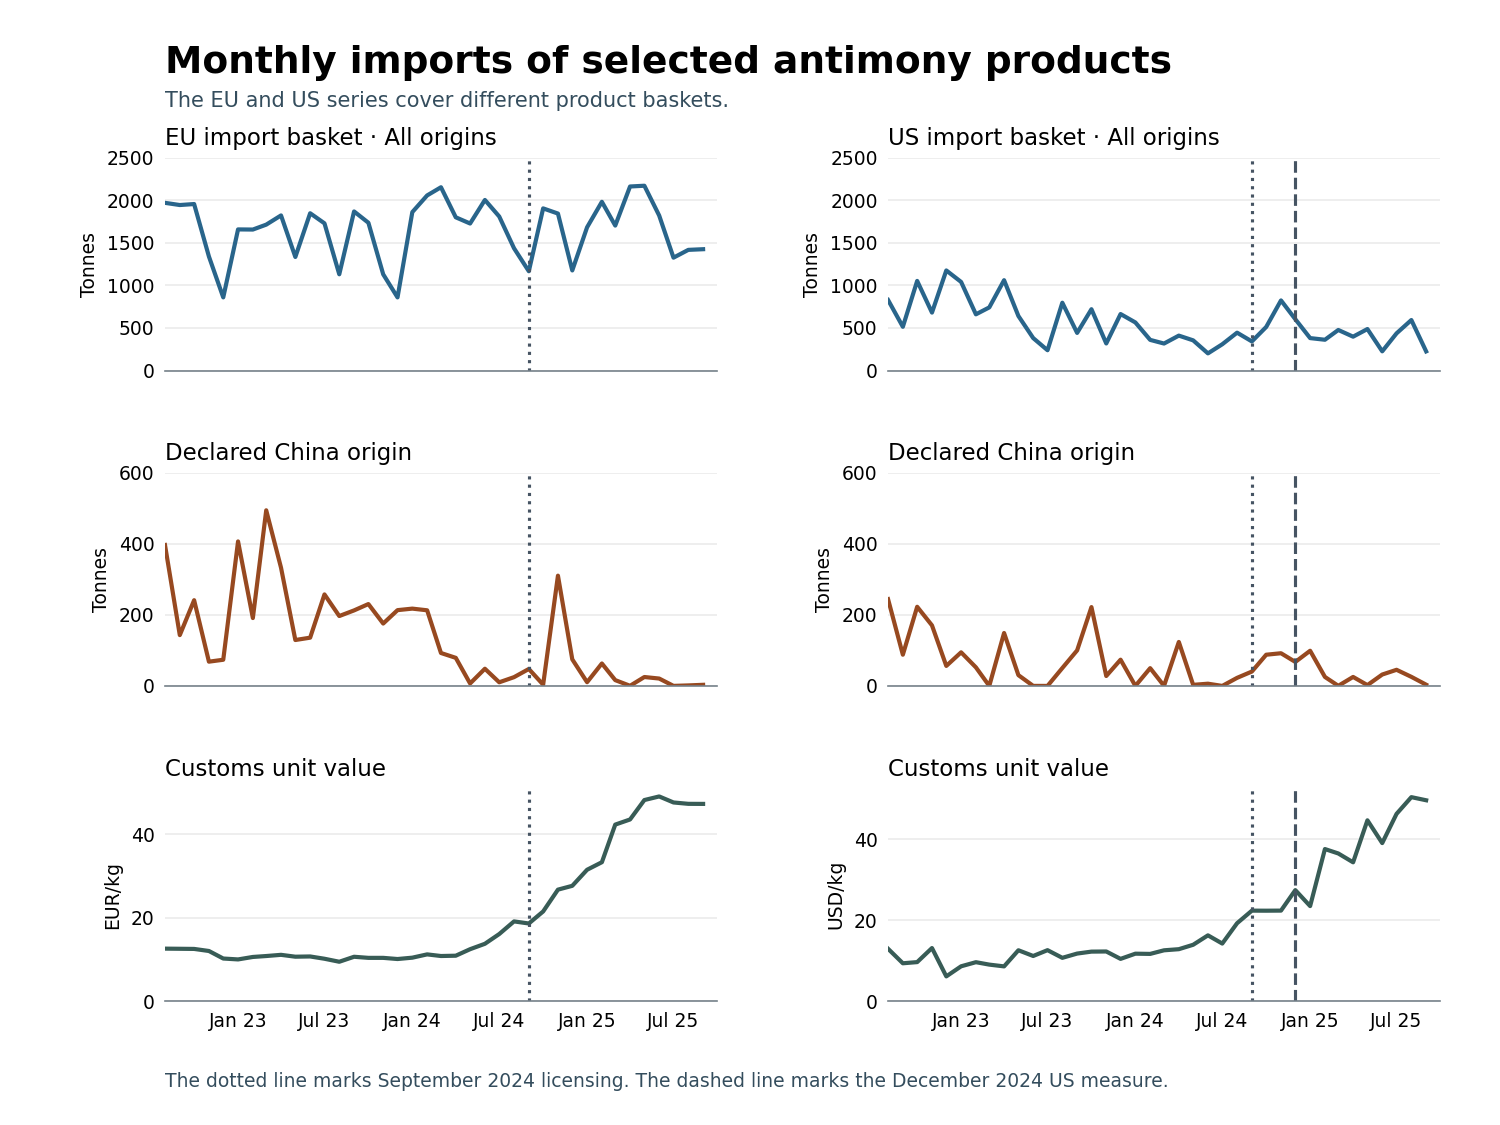
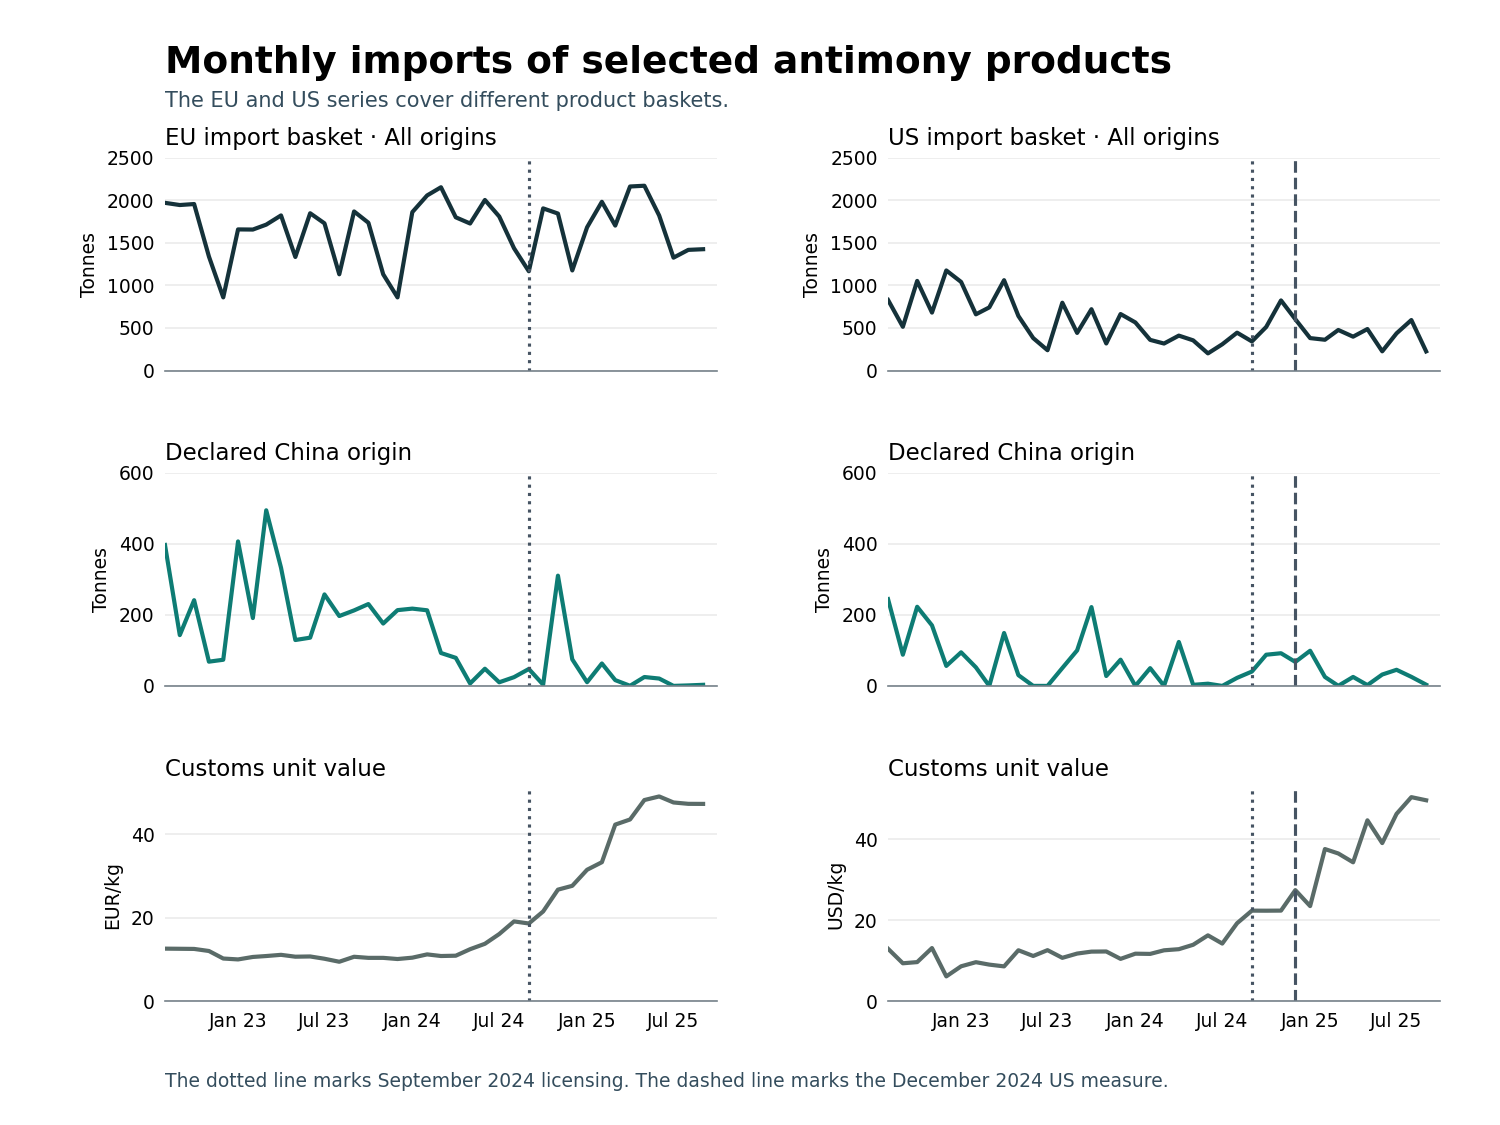
Defence review: chart in atlas colours; chart scripts kept out of the build; re-record

diff --git a/runner.py b/runner.py
@@ -70,7 +70,7 @@ CACHE = os.path.join(ROOT, '_runner_cache.json')     # (size, mtime) -> content 
 # Never run by a rebuild: network fetchers and quota spenders. Same list as the recorder's, and
 # for the same reason - except that here a stale one is a HARD STOP, not an omission. Rebuilding
 # from a cache that is behind its source is exactly the hole build.py now refuses.
-NEVER_RUN = ('backfill_', 'fetch_', 'refresh', 'pull_', 'download', 'record_graph.py', 'release_data', 'prose_guard',  # .py: 'record_graph' alone also matched graphite-chain/record_graphite.py (24 Nov 2026)
+NEVER_RUN = ('backfill_', 'fetch_', 'refresh', 'pull_', 'download', 'record_graph.py', 'release_data', 'prose_guard', 'plot_',  # .py: 'record_graph' alone also matched graphite-chain/record_graphite.py (24 Nov 2026)
             
              'check.py', 'scheduled_run', 'build_bgs_panel', 'runner.py', 'repro_audit.py', 'repro_triage.py', 'repro_worklist.py',
              # Network fetchers whose names match none of the patterns above. Found 16 Sep 2026 by

diff --git a/record_graph.py b/record_graph.py
@@ -80,7 +80,7 @@ OUT = os.path.join(ROOT, 'out', 'graph.json')
 # or rewrite state that another process depends on. Their edges are recorded as "not observed"
 # rather than guessed - an honest hole beats an invented edge.
 NEVER_RUN = (
-    'backfill_', 'fetch_', 'refresh', 'pull_', 'download', 'record_graph.py', 'release_data', 'prose_guard',  # .py: 'record_graph' alone also matched graphite-chain/record_graphite.py (24 Nov 2026)
+    'backfill_', 'fetch_', 'refresh', 'pull_', 'download', 'record_graph.py', 'release_data', 'prose_guard', 'plot_',  # .py: 'record_graph' alone also matched graphite-chain/record_graphite.py (24 Nov 2026)
             
     'check.py',            # the gate itself; it reads everything and would drown the graph
     'runner.py',           # reads the graph it would be recorded into, and rebuilds from it

diff --git a/defence-chain/plot_antimony.py b/defence-chain/plot_antimony.py
@@ -19,7 +19,7 @@ METRICS = (
     ("china_t", "Declared China origin", "Tonnes", 600),
     ("customs_unit_value_per_kg", "Customs unit value", "{currency}/kg", None),
 )
-COLORS = ("#29658b", "#974920", "#385c56")
+COLORS = ("#15323a", "#0e7c74", "#5a6b68")   # atlas navy, teal, grey
 
 
 def main():
